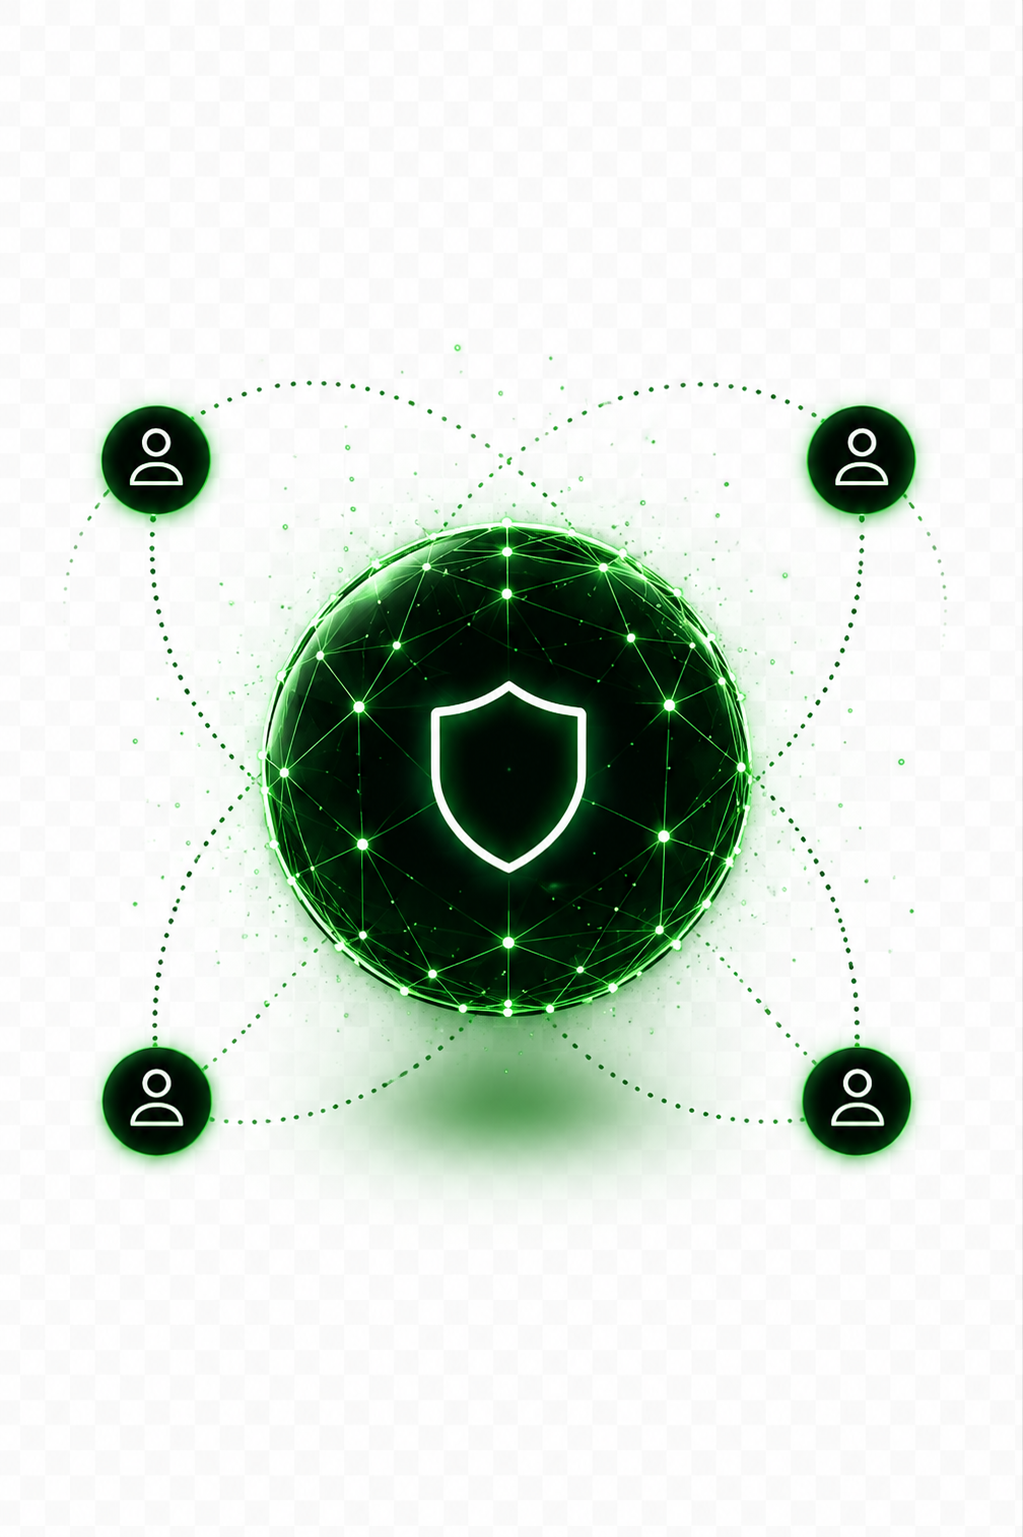
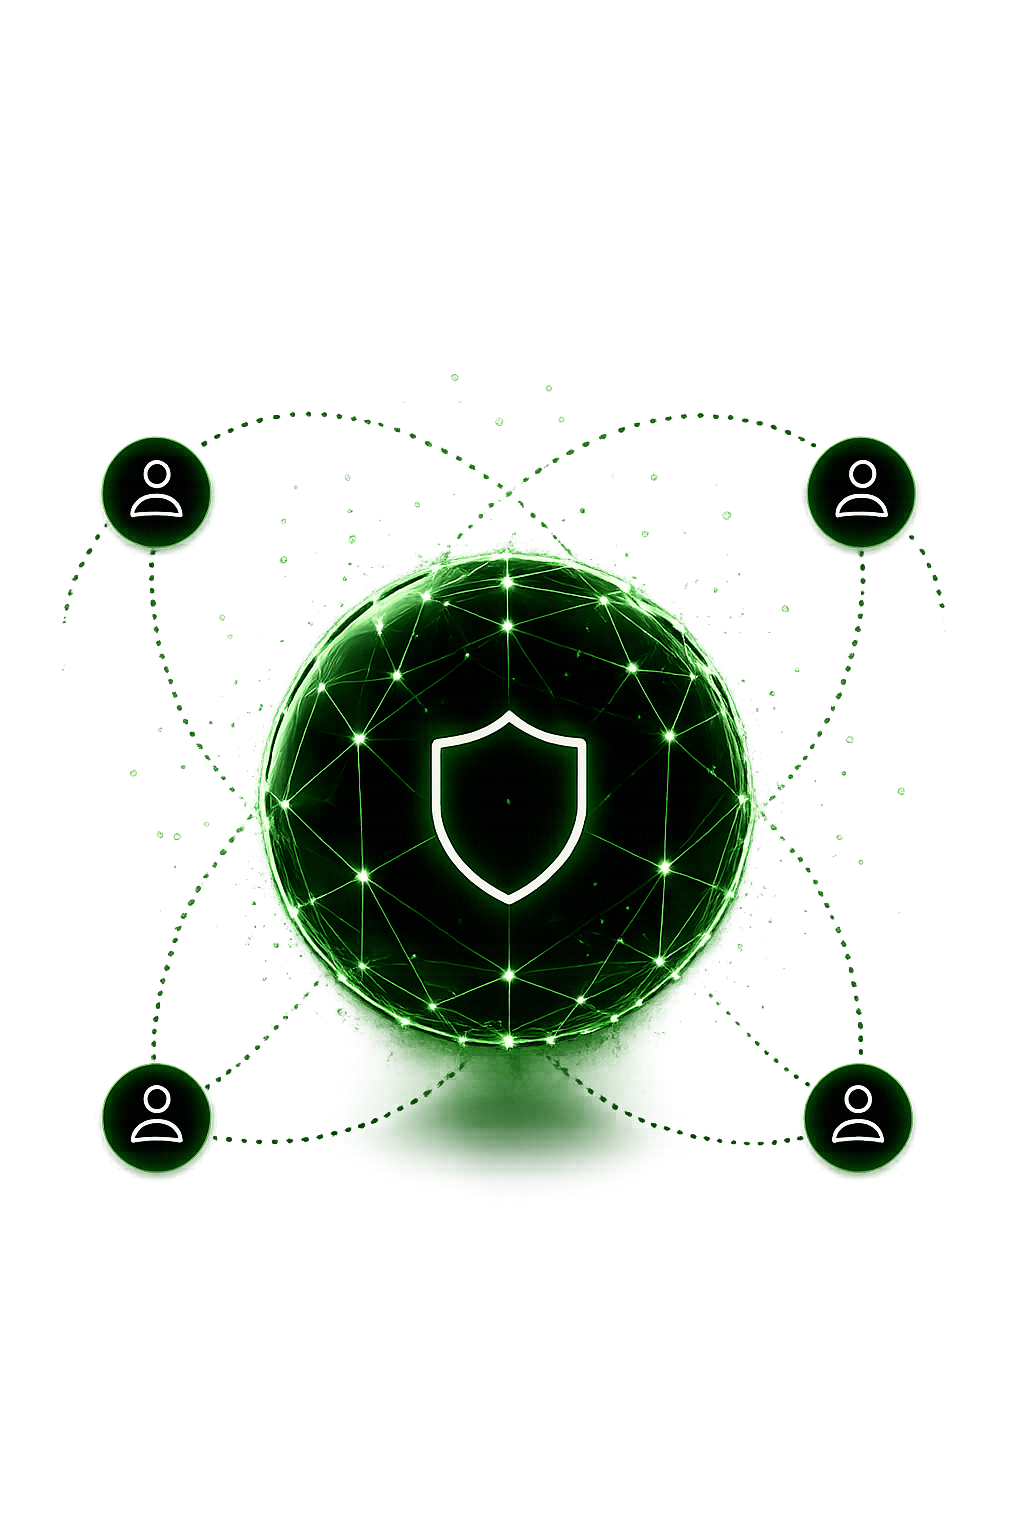
feat: 온보딩 3번째 튜토리얼 화면(일정 관리) 추가
onbording-3.png(캘린더+참가 카드 2개) 이미지로 3번째 슬라이드 신규 작성,
"02" 스텝 라벨 + "경기 일정을 쉽게 관리하세요" 문구. 2번째 슬라이드와
동일한 레이아웃/타이포 스타일(featureTextBlock 등) 재사용.

onbording-2.png는 사용자가 교체한 최신 버전으로 갱신.

diff --git a/src/features/onboarding/screens/OnboardingScreen.tsx b/src/features/onboarding/screens/OnboardingScreen.tsx
@@ -28,8 +28,8 @@ const SLIDES = [
   },
   {
     icon: 'stopwatch-outline',
-    title: '오프라인에서도\n경기 타이머가 동작해요',
-    subtitle: '쿼터 종료 알림까지 한 번에',
+    title: '경기 일정을\n쉽게 관리하세요',
+    subtitle: '참가 여부와 일정 조율을 한눈에!',
   },
   {
     icon: 'checkbox-outline',
@@ -128,6 +128,24 @@ export function OnboardingScreen({ onDone }: OnboardingScreenProps) {
               />
               <View style={[styles.featureTextBlock, { marginTop: introTextMarginTop }]}>
                 <Text style={styles.stepNumber}>01</Text>
+                <Text style={[styles.title, styles.centerText, styles.featureTitleSize]}>{slide.title}</Text>
+                <Text style={[styles.subtitle, styles.centerText, styles.featureSubtitleSize]}>
+                  {slide.subtitle}
+                </Text>
+              </View>
+            </View>
+          ) : i === 2 ? (
+            <View
+              key={i}
+              style={[styles.slide, styles.introSlide, { width: SCREEN_WIDTH, marginTop: introSlideMarginTop }]}
+            >
+              <Image
+                source={require('../../../../assets/onbording-3.png')}
+                style={{ width: introImageWidth, height: introImageHeight, marginHorizontal: -12 }}
+                resizeMode="contain"
+              />
+              <View style={[styles.featureTextBlock, { marginTop: introTextMarginTop }]}>
+                <Text style={styles.stepNumber}>02</Text>
                 <Text style={[styles.title, styles.centerText, styles.featureTitleSize]}>{slide.title}</Text>
                 <Text style={[styles.subtitle, styles.centerText, styles.featureSubtitleSize]}>
                   {slide.subtitle}
